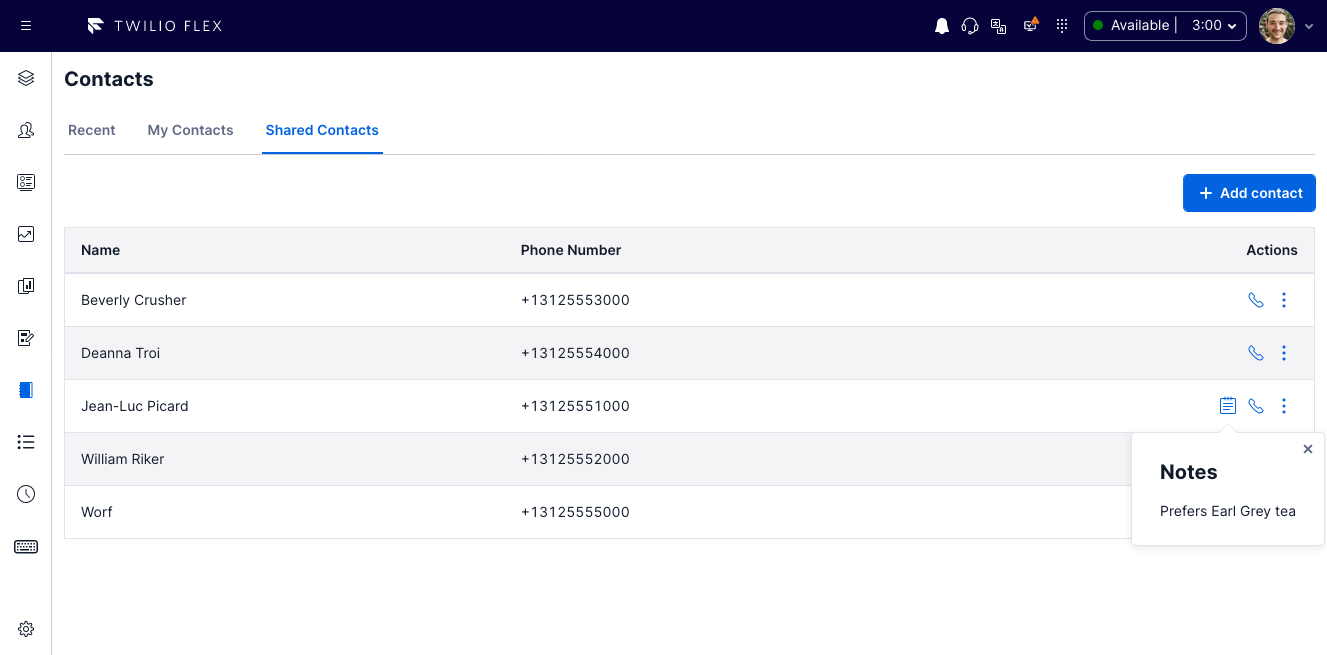
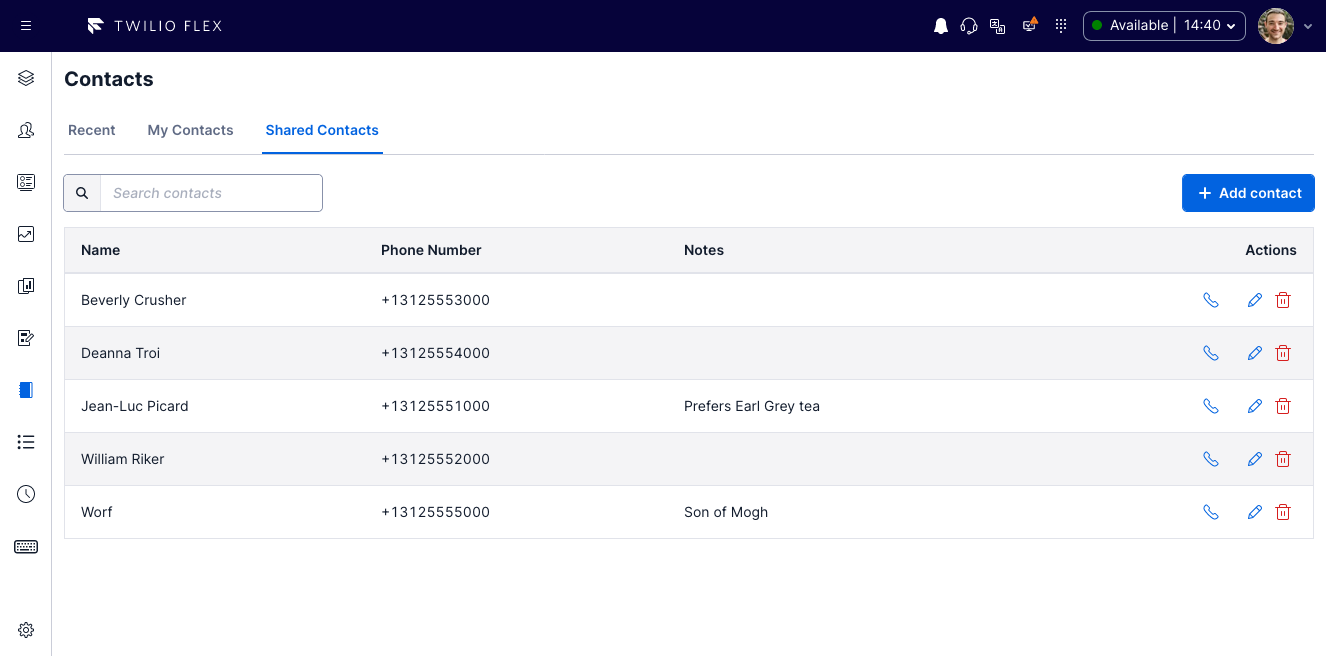
Improve performance
- Notes popover moved to inline column
- Edit menu changed to inline buttons

If there is desire to revert these changes in the future, we will need to implement pagination first

diff --git a/plugin-flex-ts-template-v2/src/feature-library/contacts/custom-components/DirectoryTab/ContactRecord.tsx b/plugin-flex-ts-template-v2/src/feature-library/contacts/custom-components/DirectoryTab/ContactRecord.tsx
@@ -1,15 +1,12 @@
-import { Template, templates } from '@twilio/flex-ui';
+import { templates } from '@twilio/flex-ui';
 import { Flex } from '@twilio-paste/core/flex';
 import { Tr, Td } from '@twilio-paste/core/table';
-import { Menu, MenuButton, MenuItem, useMenuState } from '@twilio-paste/core/menu';
-import { MediaObject, MediaFigure, MediaBody } from '@twilio-paste/core/media-object';
-import { MoreIcon } from '@twilio-paste/icons/esm/MoreIcon';
+import { Button } from '@twilio-paste/core/button';
 import { DeleteIcon } from '@twilio-paste/icons/esm/DeleteIcon';
 import { EditIcon } from '@twilio-paste/icons/esm/EditIcon';
 
 import { StringTemplates } from '../../flex-hooks/strings';
 import { Contact } from '../../types';
-import NotesPopover from '../NotesPopover';
 import OutboundCallModal from '../OutboundCallModal';
 
 export interface OwnProps {
@@ -21,44 +18,38 @@ export interface OwnProps {
 
 const ContactRecord = ({ contact, allowEdits, deleteContact, editContact }: OwnProps) => {
   const { key, phoneNumber, name, notes } = contact;
-  const menu = useMenuState();
 
   return (
     <Tr key={key}>
       <Td>{name}</Td>
       <Td>{phoneNumber}</Td>
+      <Td>{notes}</Td>
       <Td textAlign="right">
         <Flex vAlignContent="center" hAlignContent="right">
-          {notes && <NotesPopover notes={notes} />}
           <OutboundCallModal phoneNumber={phoneNumber || ''} />
           {allowEdits && (
-            <>
-              <MenuButton {...menu} variant="primary_icon" size="icon_small">
-                <MoreIcon decorative={false} title={templates.MoreOptionsAriaLabel()} />
-              </MenuButton>
-              <Menu {...menu} aria-label={templates.MoreOptionsAriaLabel()}>
-                <MenuItem {...menu} onClick={() => editContact(contact)}>
-                  <MediaObject verticalAlign="center">
-                    <MediaFigure spacing="space20">
-                      <EditIcon decorative={true} />
-                    </MediaFigure>
-                    <MediaBody>
-                      <Template source={templates[StringTemplates.ContactEdit]} />
-                    </MediaBody>
-                  </MediaObject>
-                </MenuItem>
-                <MenuItem {...menu} variant="destructive" onClick={() => deleteContact(contact)}>
-                  <MediaObject verticalAlign="center">
-                    <MediaFigure spacing="space20">
-                      <DeleteIcon decorative={true} />
-                    </MediaFigure>
-                    <MediaBody>
-                      <Template source={templates[StringTemplates.ContactDelete]} />
-                    </MediaBody>
-                  </MediaObject>
-                </MenuItem>
-              </Menu>
-            </>
+            <Flex marginLeft="space50">
+              <Button
+                variant="primary_icon"
+                size="icon_small"
+                title={templates[StringTemplates.ContactEdit]()}
+                onClick={() => {
+                  editContact(contact);
+                }}
+              >
+                <EditIcon decorative={true} />
+              </Button>
+              <Button
+                variant="destructive_icon"
+                size="icon_small"
+                title={templates[StringTemplates.ContactDelete]()}
+                onClick={() => {
+                  deleteContact(contact);
+                }}
+              >
+                <DeleteIcon decorative={true} />
+              </Button>
+            </Flex>
           )}
         </Flex>
       </Td>

diff --git a/plugin-flex-ts-template-v2/src/feature-library/contacts/custom-components/DirectoryTab/DirectoryTab.tsx b/plugin-flex-ts-template-v2/src/feature-library/contacts/custom-components/DirectoryTab/DirectoryTab.tsx
@@ -136,6 +136,9 @@ const DirectoryTab = ({ shared, allowEdits }: OwnProps) => {
                   <Th>
                     <Template source={templates[StringTemplates.ContactPhoneNumber]} />
                   </Th>
+                  <Th>
+                    <Template source={templates[StringTemplates.ContactNotes]} />
+                  </Th>
                   <Th textAlign="right">
                     <Template source={templates[StringTemplates.ContactActions]} />
                   </Th>

diff --git a/plugin-flex-ts-template-v2/src/feature-library/contacts/custom-components/RecentTab/HistoricalContactRecord.tsx b/plugin-flex-ts-template-v2/src/feature-library/contacts/custom-components/RecentTab/HistoricalContactRecord.tsx
@@ -11,7 +11,7 @@ import { ChatIcon } from '@twilio-paste/icons/esm/ChatIcon';
 
 import { StringTemplates } from '../../flex-hooks/strings';
 import { HistoricalContact } from '../../types';
-import NotesPopover from '../NotesPopover';
+import NotesPopover from './NotesPopover';
 import OutboundCallModal from '../OutboundCallModal';
 
 export interface OwnProps {

diff --git a/plugin-flex-ts-template-v2/src/feature-library/contacts/custom-components/RecentTab/NotesPopover.tsx b/plugin-flex-ts-template-v2/src/feature-library/contacts/custom-components/RecentTab/NotesPopover.tsx
@@ -4,7 +4,7 @@ import { PopoverContainer, PopoverButton, Popover } from '@twilio-paste/core/pop
 import { Text } from '@twilio-paste/core/text';
 import { Heading } from '@twilio-paste/core/heading';
 
-import { StringTemplates } from '../flex-hooks/strings';
+import { StringTemplates } from '../../flex-hooks/strings';
 
 interface Props {
   notes: string;
